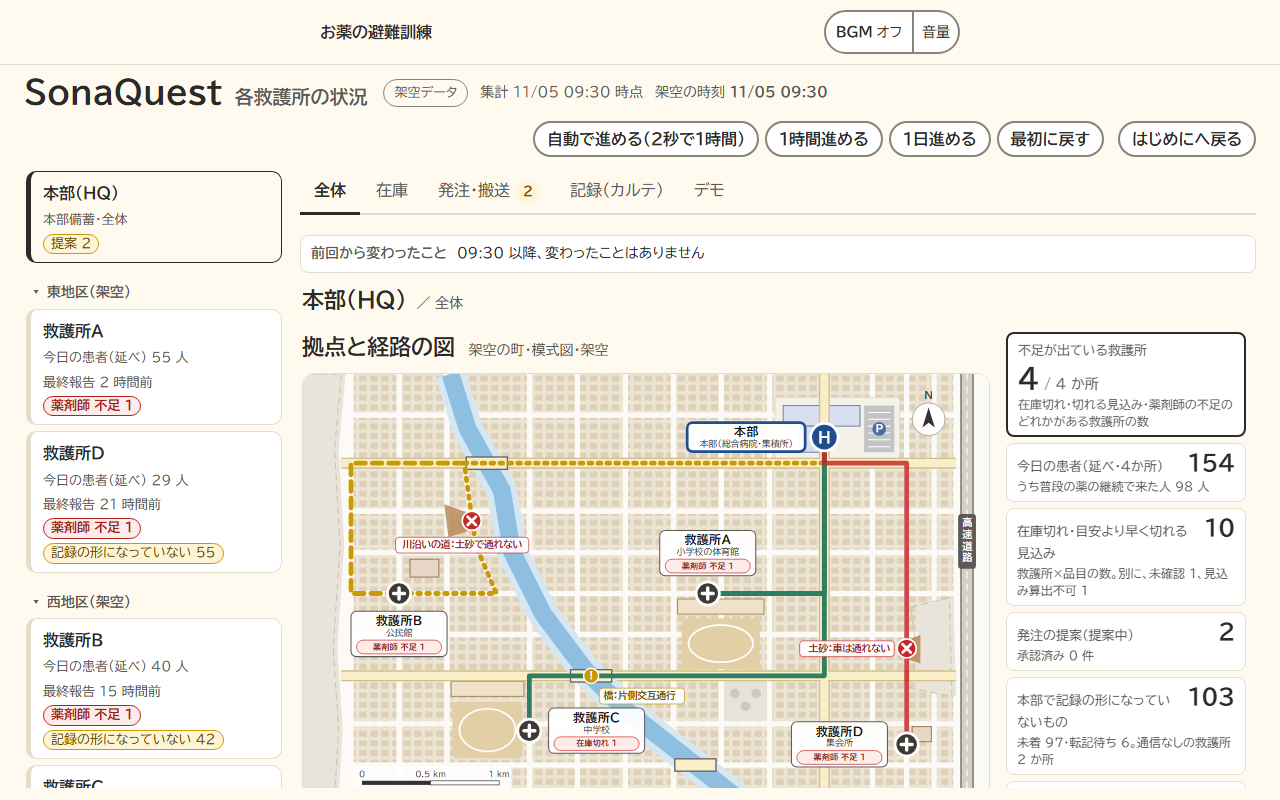
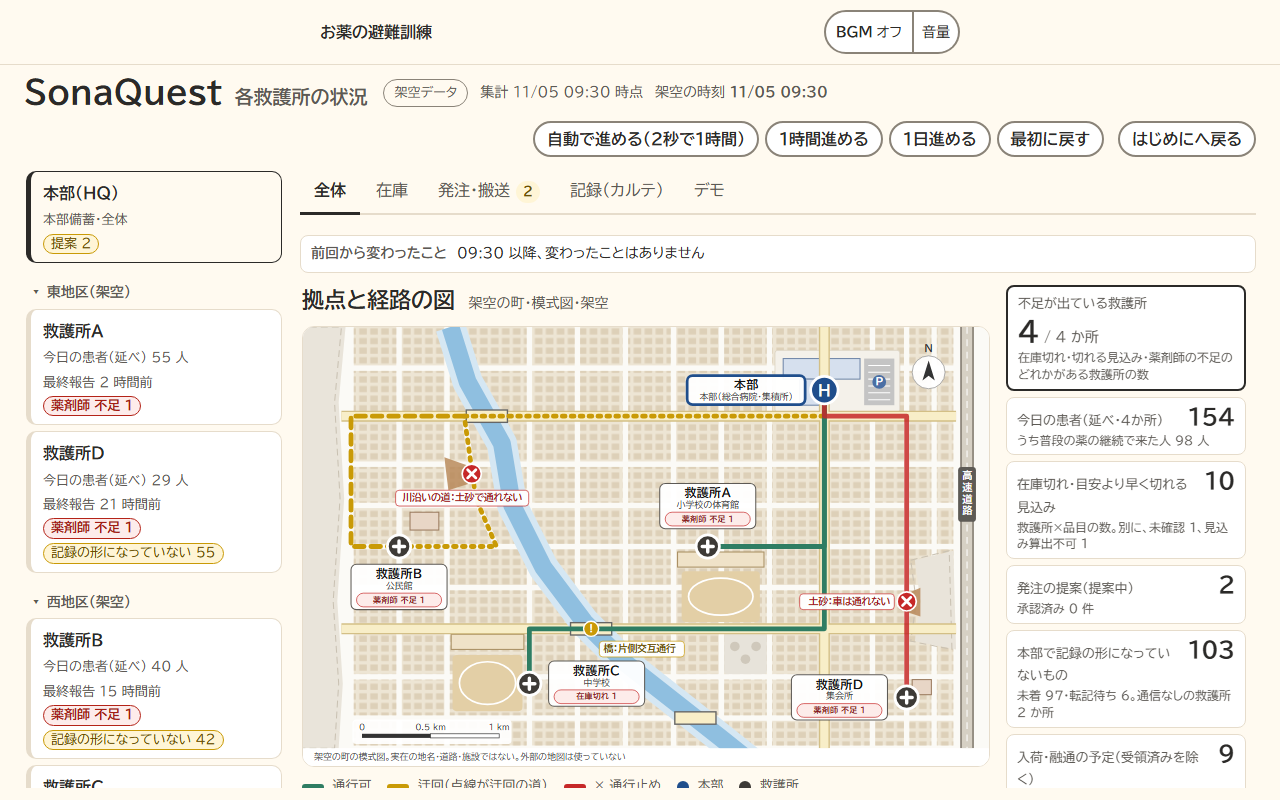
本部の全体では「本部（HQ）／全体」の題の行を見せない（読み上げ用には残す。Issue #107。オーナー「本部に限っては要らない」）

Changed region(s): [[0.2188, 0.3438, 0.9688, 1.0]]

diff --git a/web/src/screens/Board.tsx b/web/src/screens/Board.tsx
@@ -1047,7 +1047,12 @@ export function Board({ onBack, reducedMotion, initialSite = HQ, initialTab = "o
           </p>
 
           <div className="board-panel" id="board-panel" role="tabpanel" aria-labelledby={`board-tab-${tab}`} ref={panelRef} tabIndex={-1}>
-            <h2 className="board-panel-title" id="board-panel-title" data-panel={`${selected}|${tab}`}>
+            {/* 本部の全体では題の行を見せない（左のペインとタブで分かる。オーナー「本部に限っては要らない」）。読み上げ用には残す */}
+            <h2
+              className={`board-panel-title${isHq && tab === "overview" ? " visually-hidden" : ""}`}
+              id="board-panel-title"
+              data-panel={`${selected}|${tab}`}
+            >
               {siteName(selected)}
               {!isHq && districtOf(selected) && <span className="board-count">{districtOf(selected)?.name}</span>}
               <span className="board-panel-tab">{tabLabel(tab)}</span>
